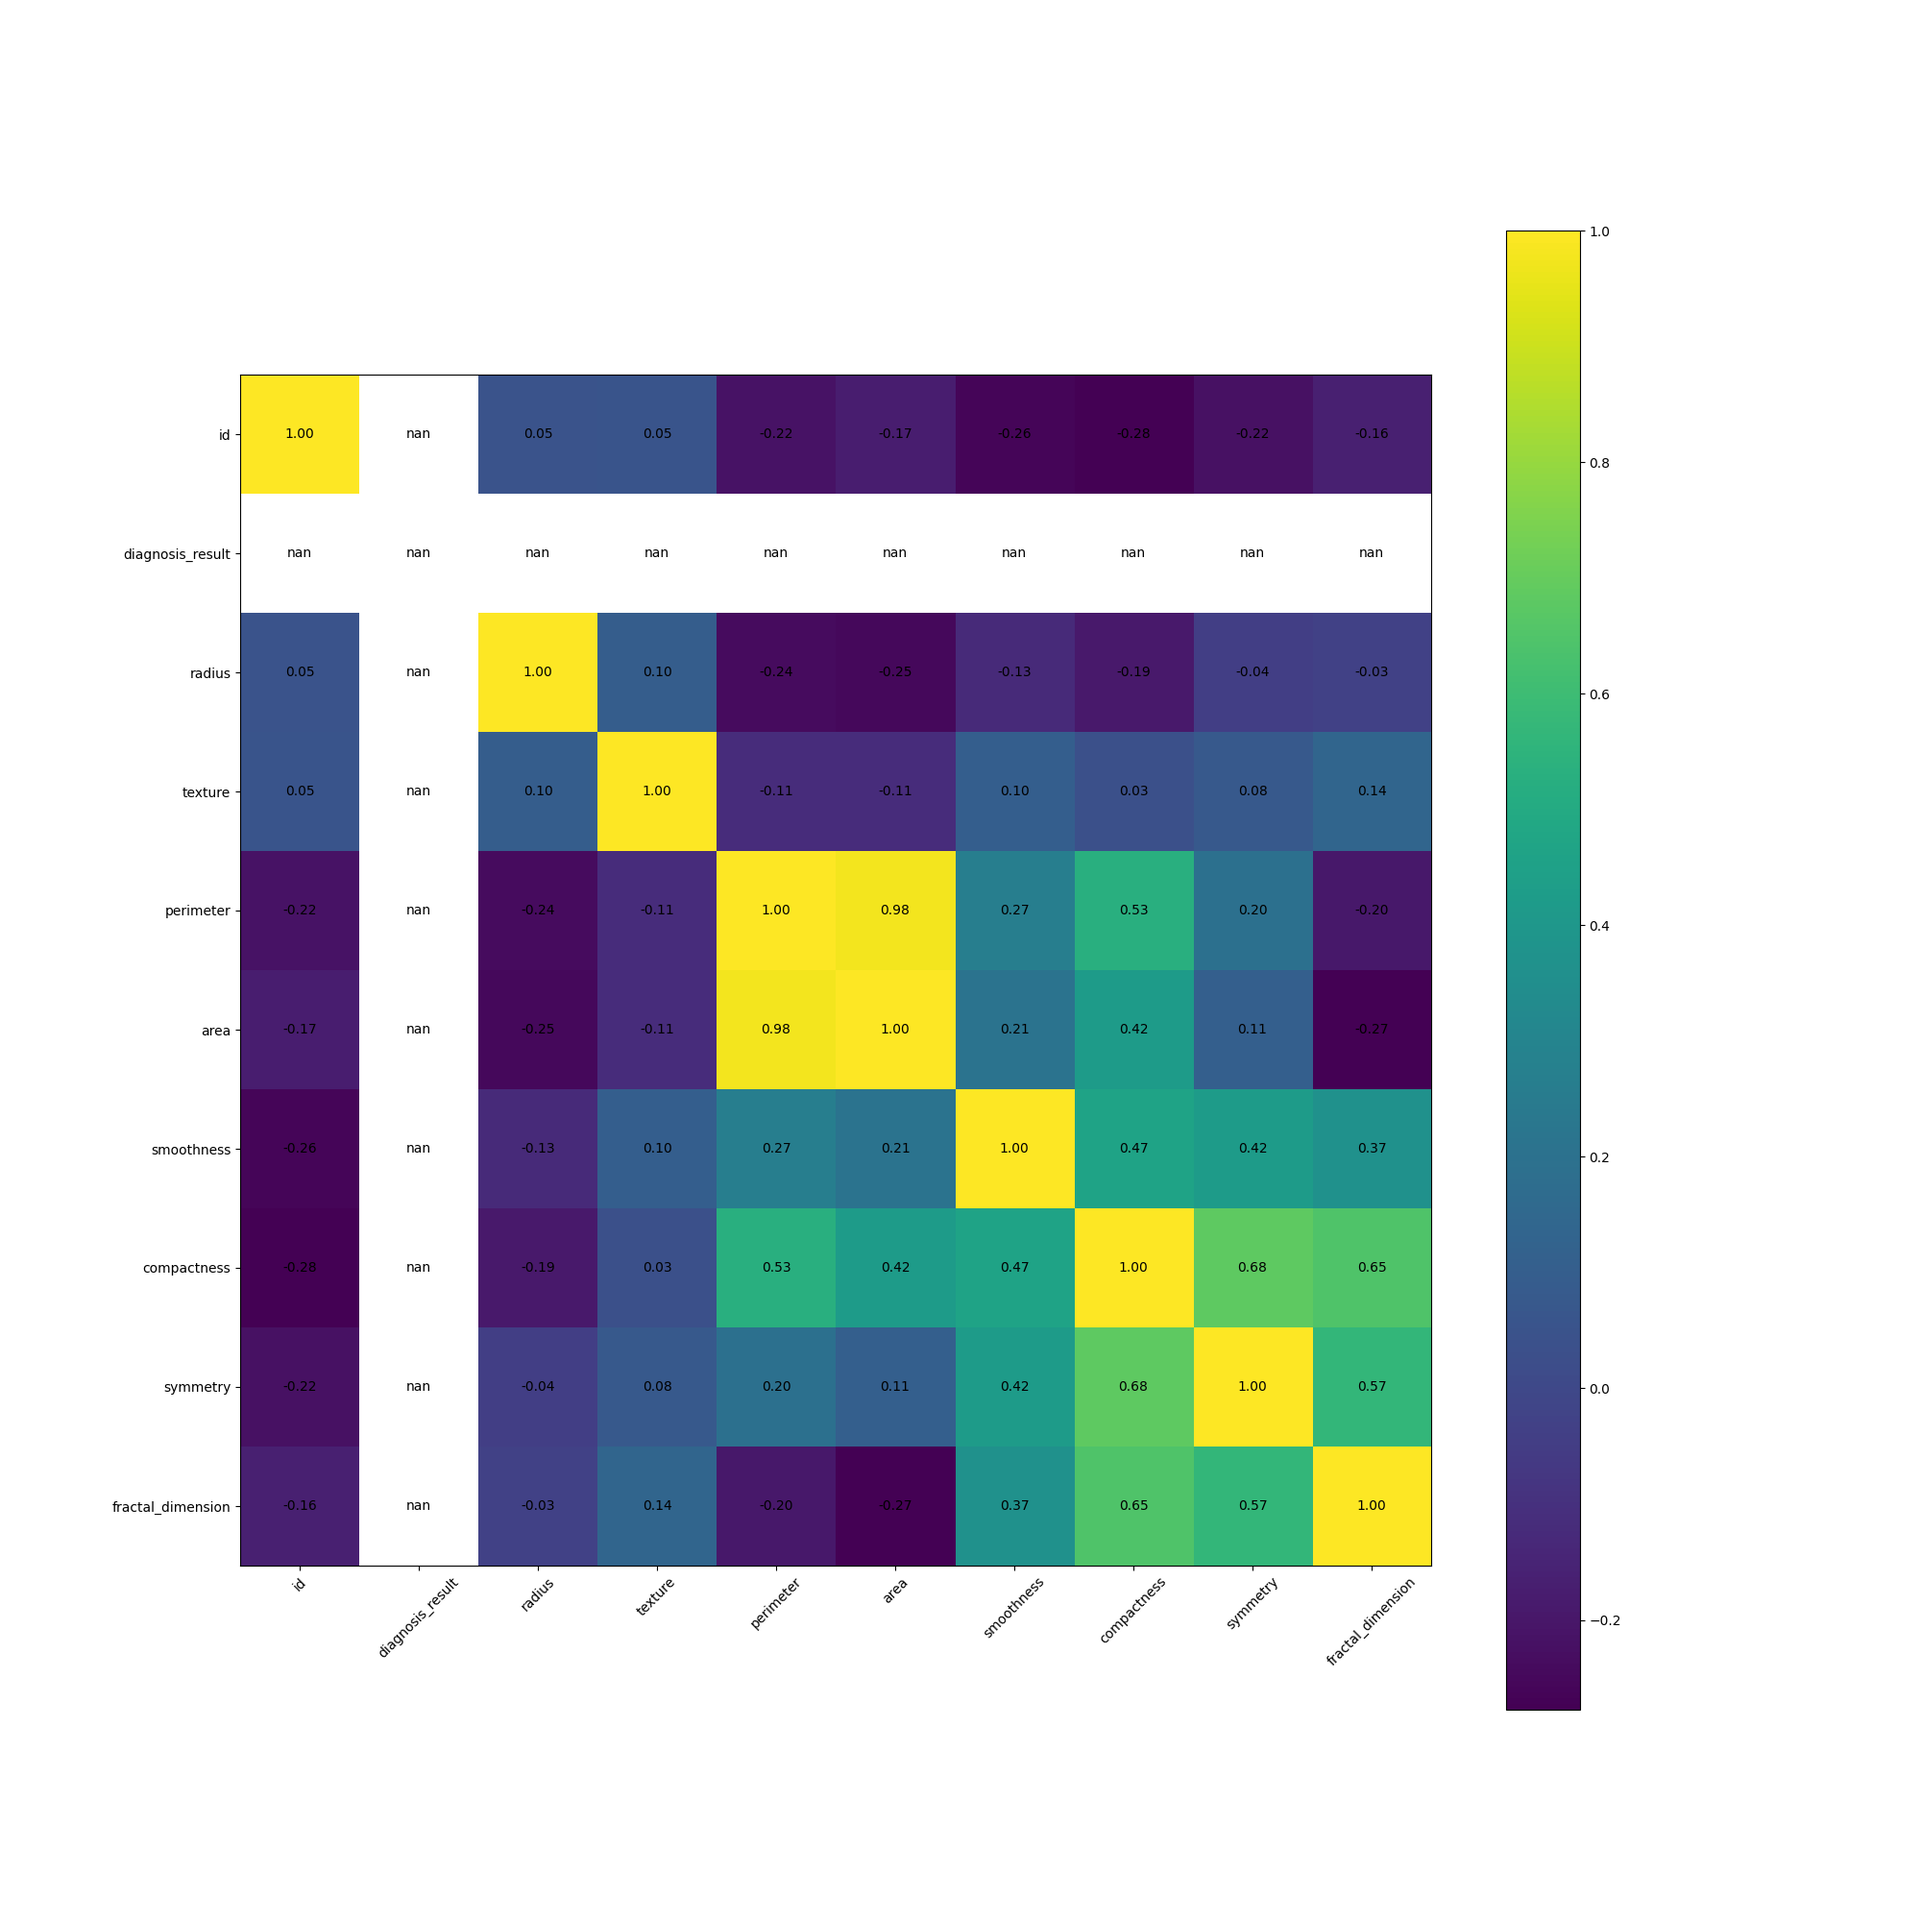
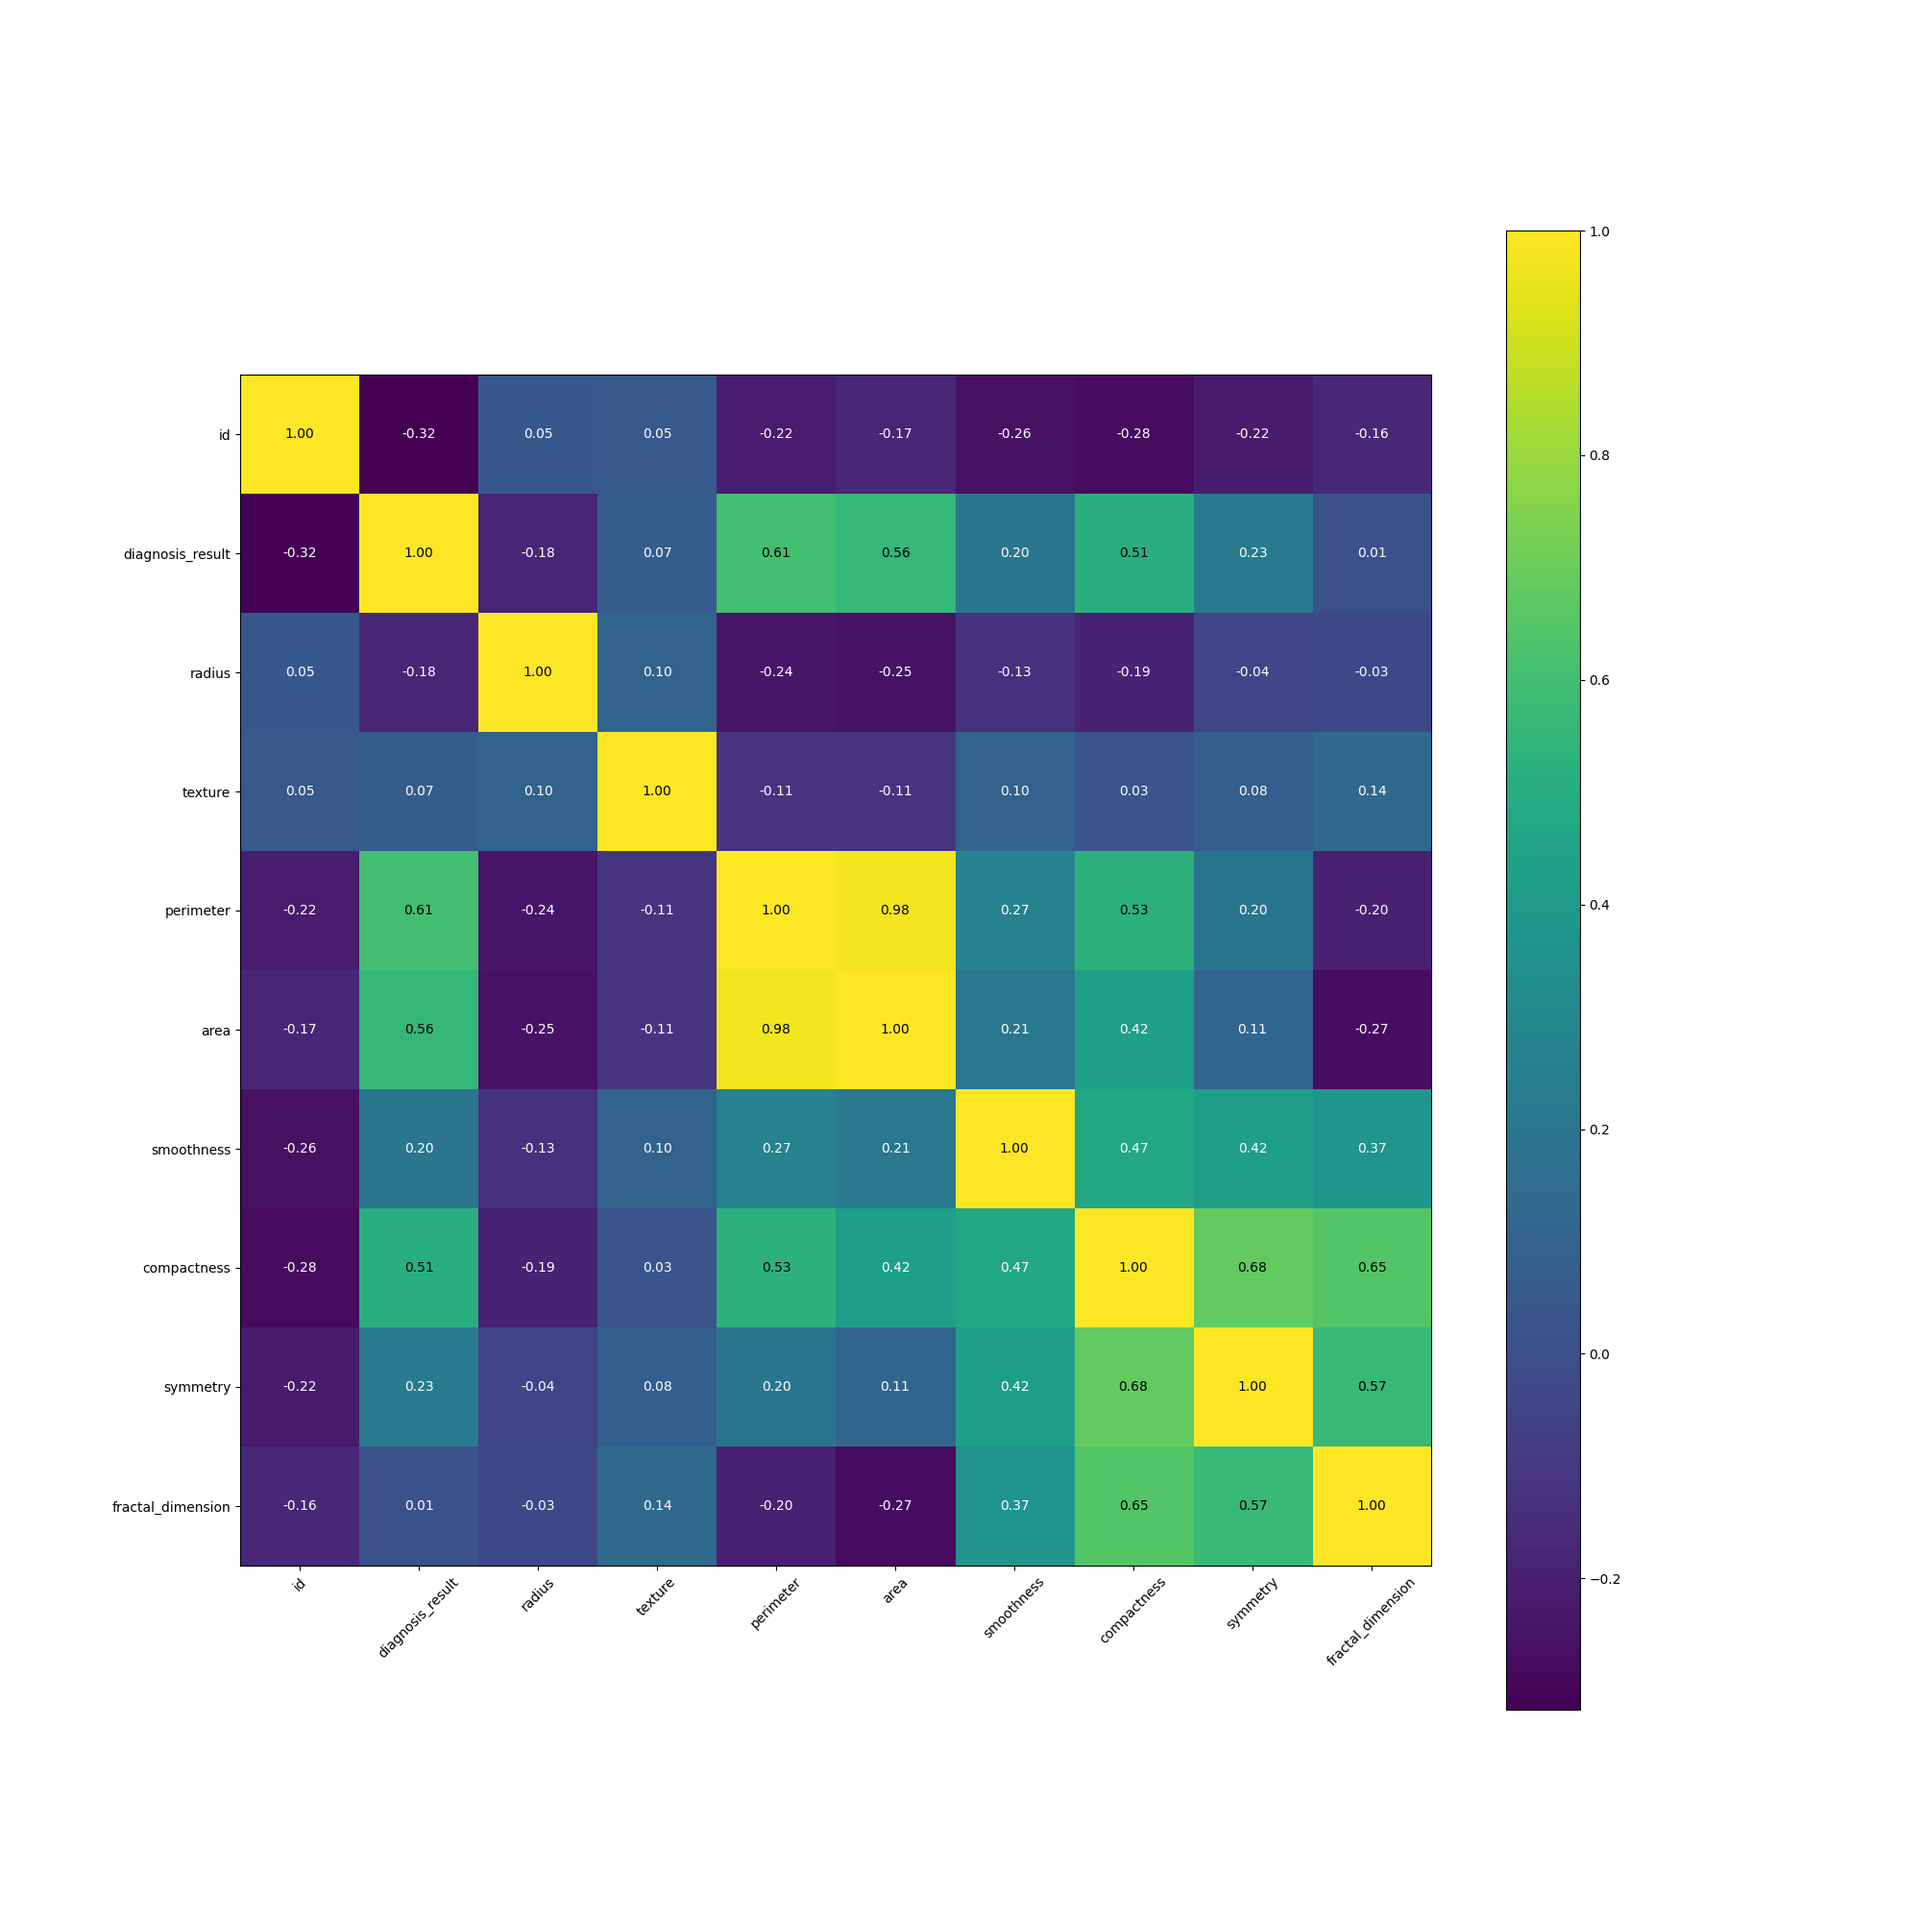
updated heatmap.png

Changed region(s): [[0.124, 0.186, 0.744, 0.837]]

diff --git a/eda.py b/eda.py
@@ -12,13 +12,8 @@ columns = ["id", "diagnosis_result", "radius", "texture", "perimeter", "area", "
 df.columns = columns
 
 
-i = 0
-for result in df["diagnosis_result"]:
-    if result == "M":
-        df.diagnosis_result.iloc[i] = 1
-    else:
-        df.diagnosis_result.iloc[i] = 0
-    i += 1
+df.diagnosis_result = df.diagnosis_result.replace("M", 1)
+df.diagnosis_result = df.diagnosis_result.replace("B", 0)
 
 # creating a scatter plot matrix
 scatterplotmatrix(df[columns].values, figsize=(30, 30), names=columns, alpha=0.8)

diff --git a/knn_learner.py b/knn_learner.py
@@ -1,3 +1,9 @@
+"""
+Getting ideas together about KNN
+
+Author: Taylor Tucker
+"""
+
 from sklearn.neighbors import KNeighborsClassifier
 import pandas as pd
 import numpy as np
